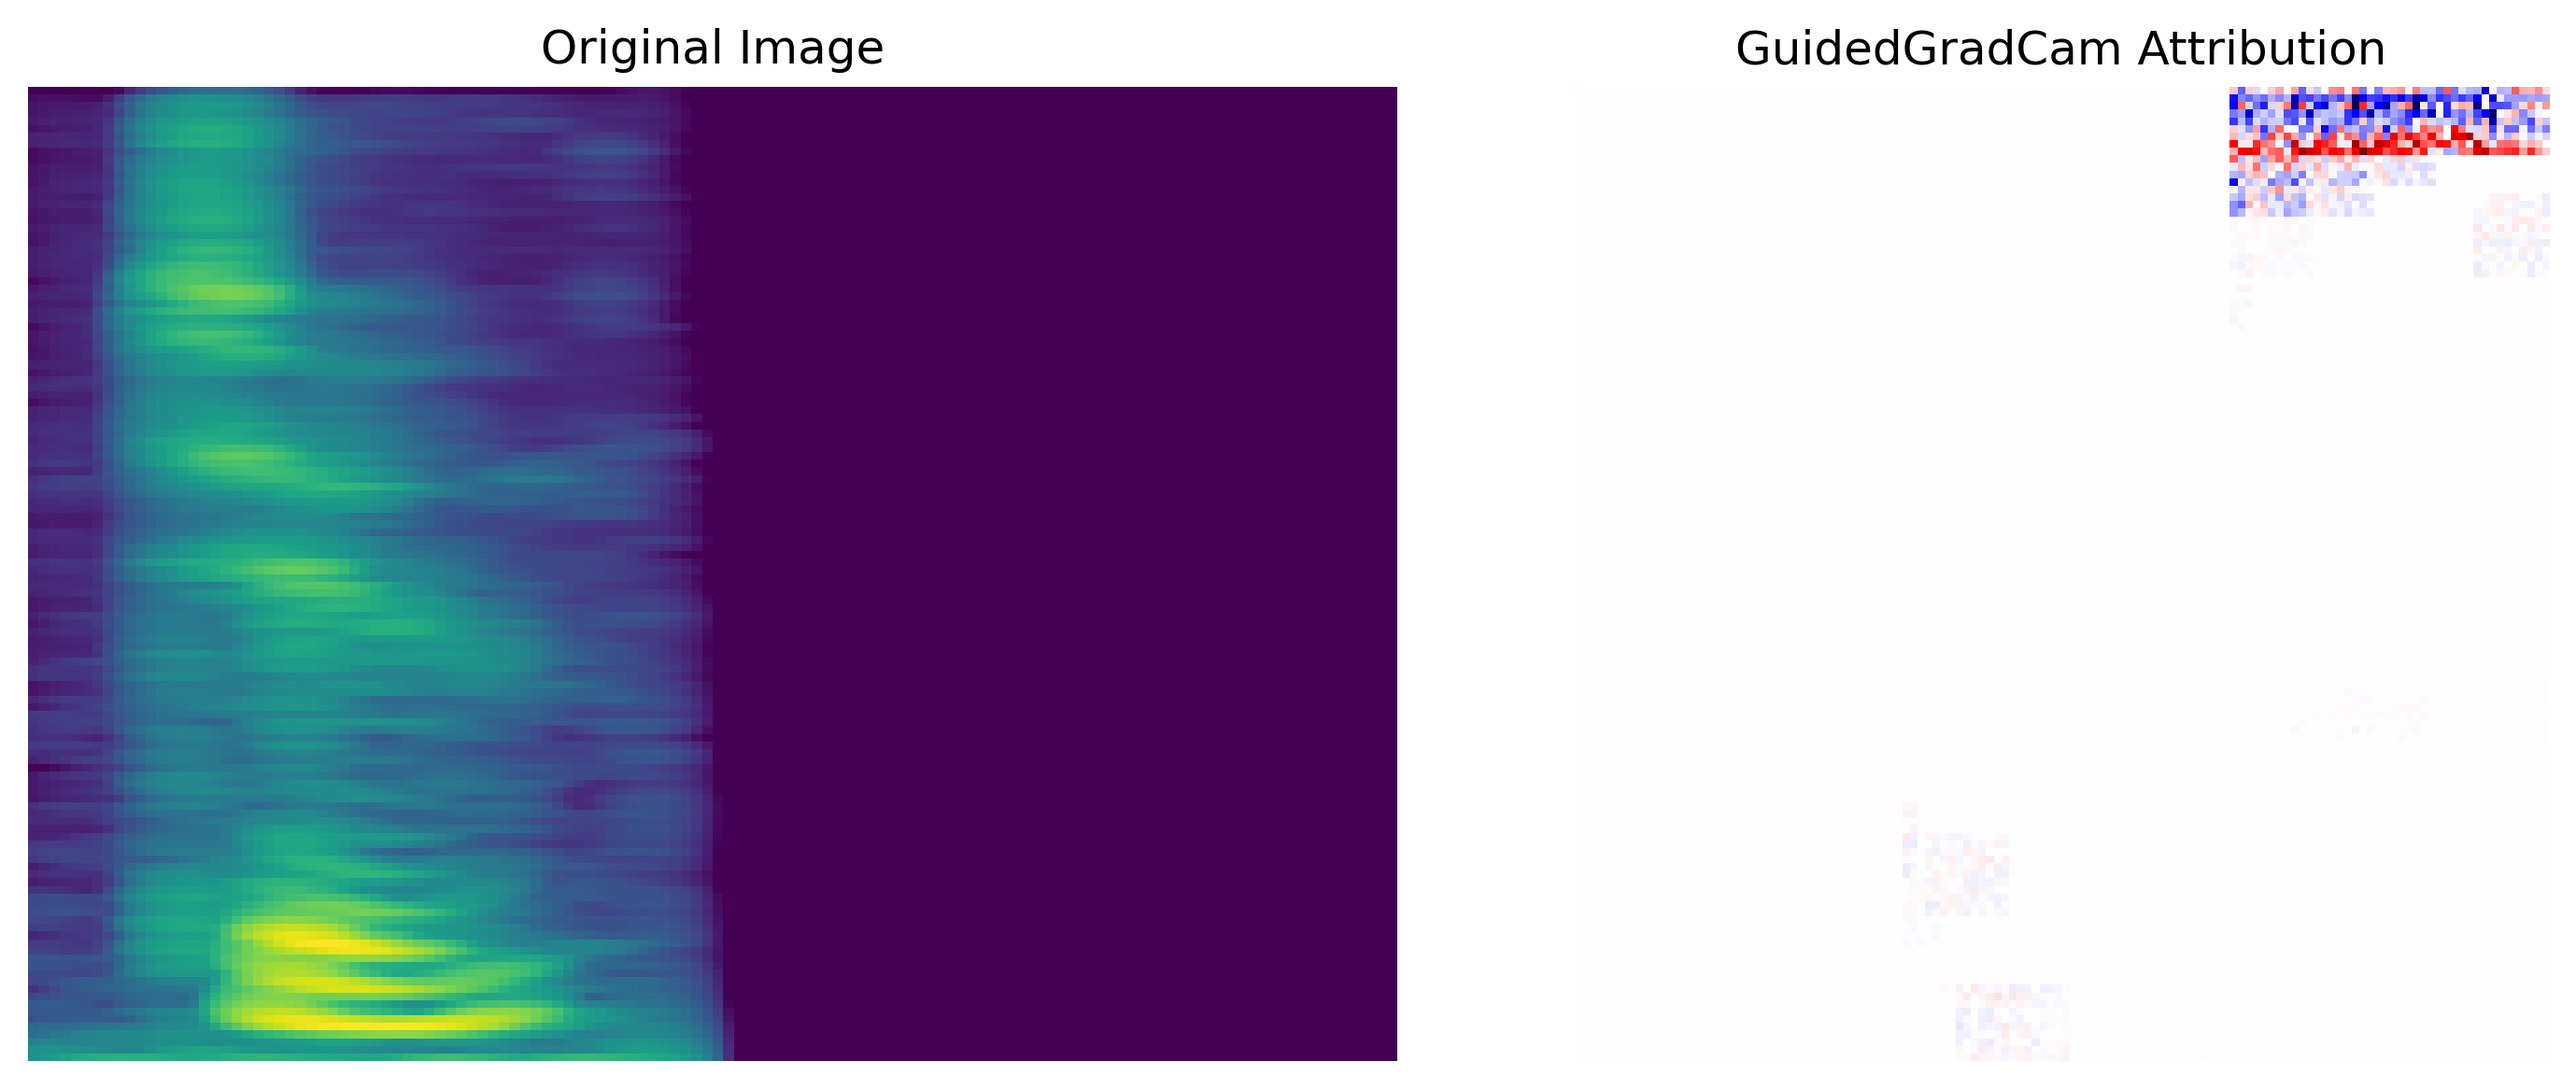
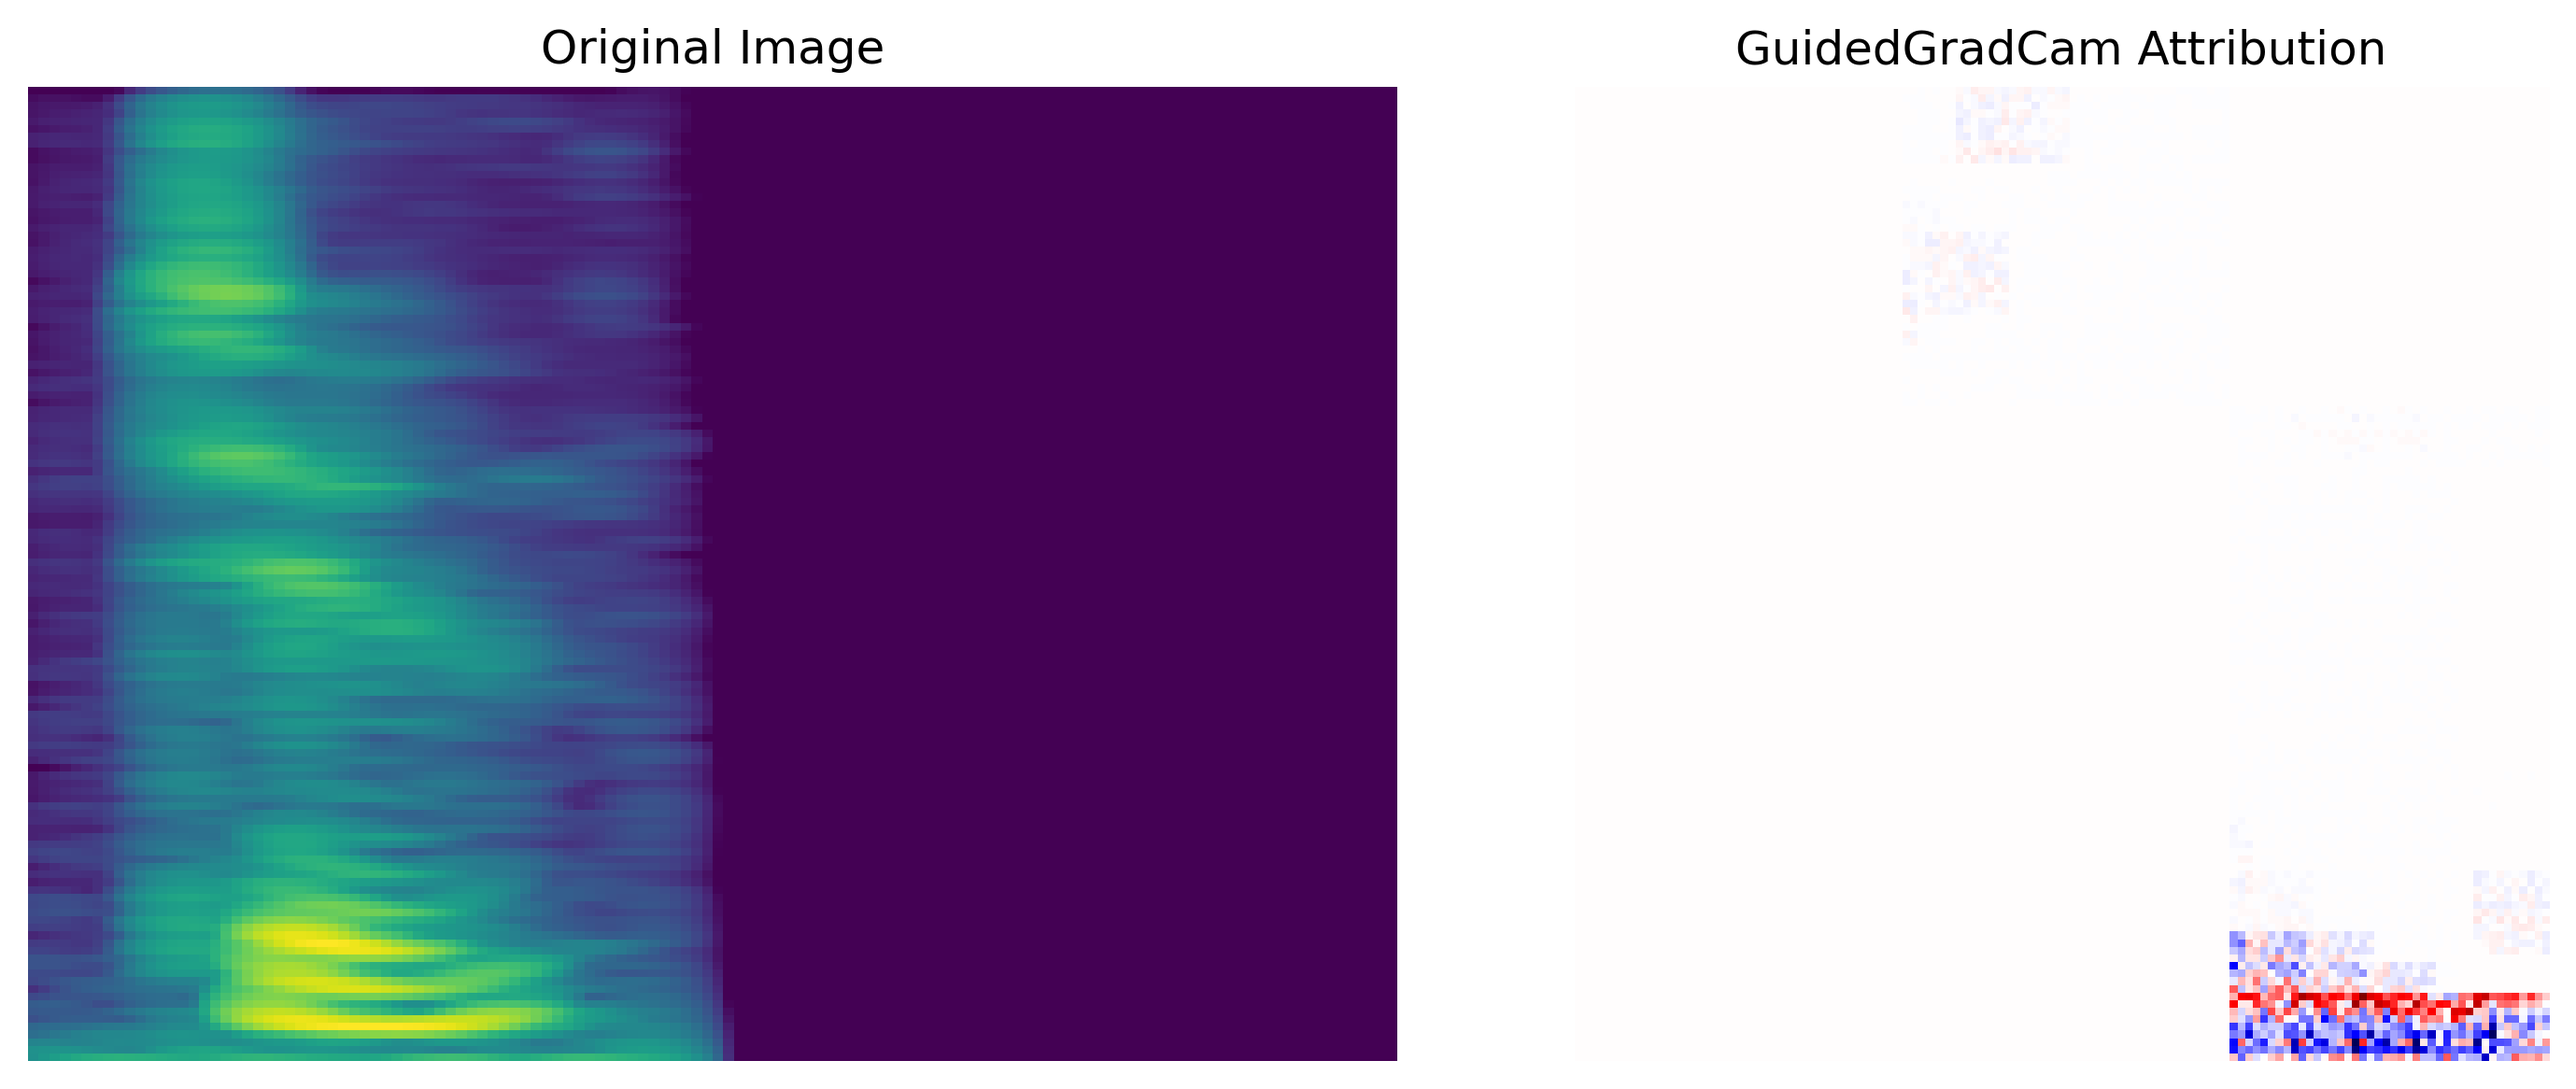
xai origin to lower plot

Changed region(s): [[0.8419, 0.8336, 0.9978, 0.988], [0.8419, 0.0617, 0.9978, 0.2161]]

diff --git a/experiments/objective_1_2/src/xai/objective2_experiments_Audio.py b/experiments/objective_1_2/src/xai/objective2_experiments_Audio.py
@@ -145,7 +145,7 @@ class XAIExperiment:
         plt.axis('off')
 
         plt.subplot(1, 2, 2)
-        plt.imshow(explanation.squeeze(), cmap='seismic', clim=(-abs_max, abs_max))
+        plt.imshow(explanation.squeeze(), cmap='seismic', clim=(-abs_max, abs_max), origin='lower')
         plt.title(f"{method} Attribution")
         plt.axis('off')
 
